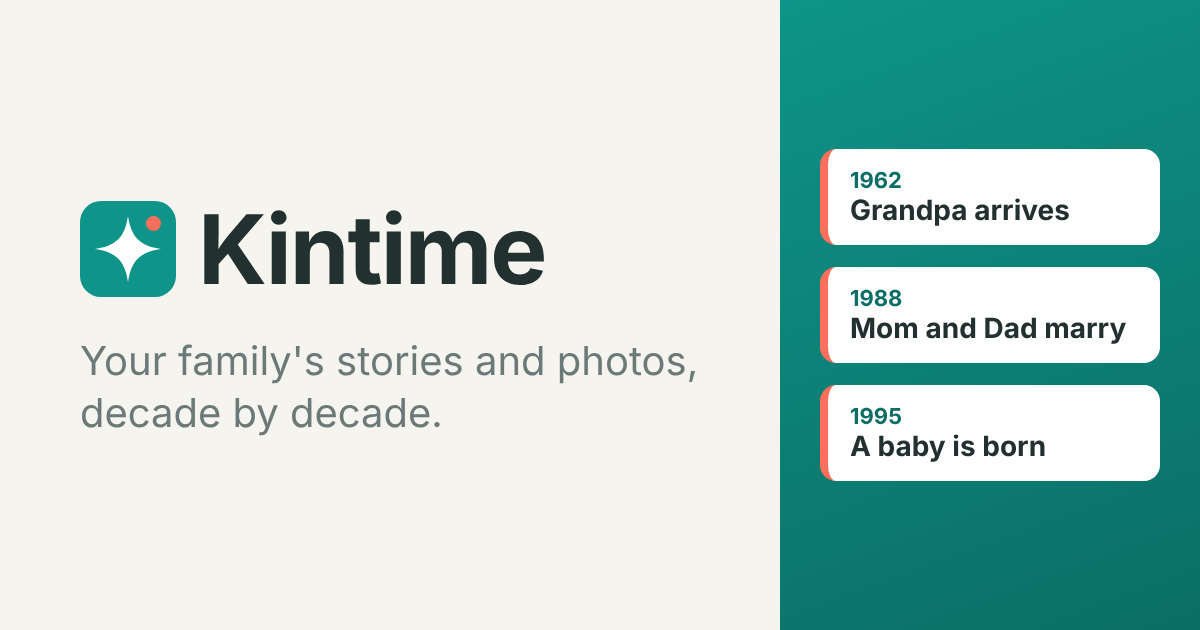
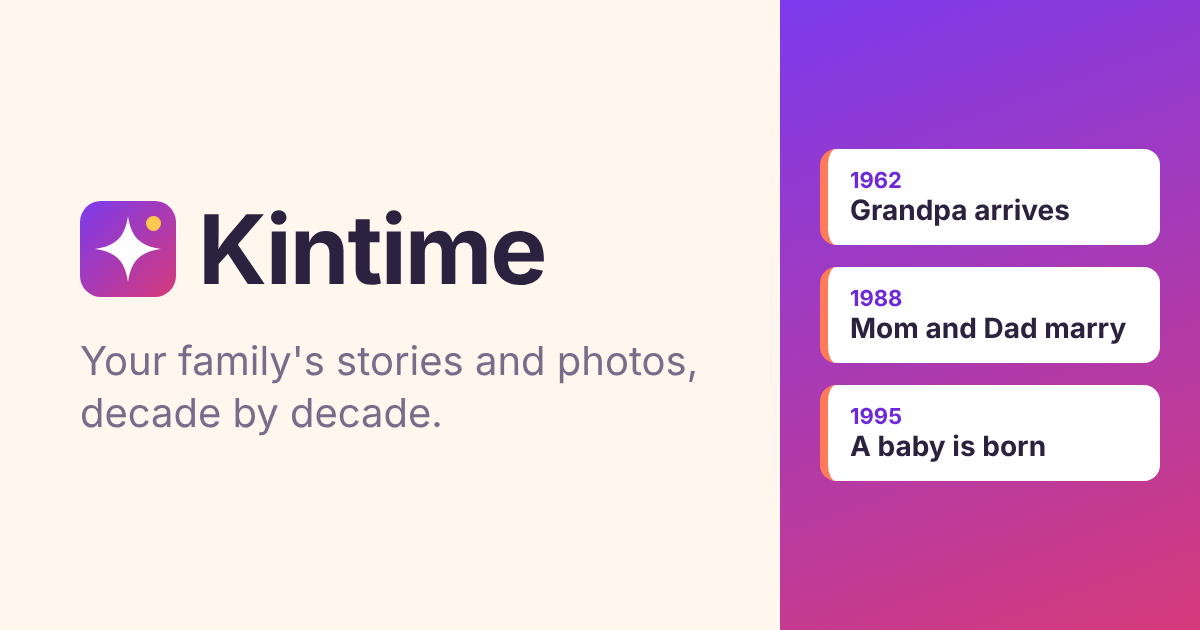
New 'Sunrise' colorway: violet, sunset pink and warm orange on cream
Theme variables renamed from teal/coral to primary/accent; favicon, home-screen
icon and link-preview image recolored to match. Dark mode tuned for contrast.

Claude-Session: https://claude.ai/code/session_0153EzbnYZEfuCp3hrdTCzas

Changed region(s): [[0.6475, 0.0, 1.0, 1.0], [0.0617, 0.3016, 0.1542, 0.4825]]

diff --git a/styles.css b/styles.css
@@ -1,30 +1,35 @@
-/* Kintime (family timeline) — teal & coral theme */
+/* Kintime (family timeline) — "Sunrise" theme */
 
 :root {
-  --teal: #0e9488;
-  --teal-deep: #0b6e66;
-  --coral: #fb6f5c;
-  --coral-deep: #e14e3a;
-  --bg: #f6f4ef;
+  /* "Sunrise": violet + sunset pink + warm orange on cream */
+  --primary: #7c3aed;
+  --primary-deep: #6d28d9;
+  --primary-text: #6d28d9;      /* primary used as text/links */
+  --accent: #ff7a59;
+  --accent-deep: #d9481f;
+  --head-grad: linear-gradient(135deg, #7c3aed, #d63a7a);
+  --bg: #fff7ee;
   --surface: #ffffff;
-  --ink: #22312f;
-  --muted: #6b7a78;
-  --line: #e5ded2;
-  --border: #e5ded2;
-  --bg-soft: #efece3;
-  --badge-pending: #f5b942;
-  --shadow: 0 2px 10px rgba(20, 40, 38, 0.08);
+  --ink: #2b2240;
+  --muted: #776c8a;
+  --line: #f1e3d3;
+  --border: #f1e3d3;
+  --bg-soft: #fbefe3;
+  --badge-pending: #ffd166;
+  --shadow: 0 2px 10px rgba(60, 30, 90, 0.08);
+  --scrim: rgba(25, 14, 40, 0.55);
 }
 
 [data-theme="dark"] {
-  --bg: #121a19;
-  --surface: #1b2524;
-  --ink: #ecf3f1;
-  --muted: #93a5a2;
-  --line: #2c3a38;
-  --border: #2c3a38;
-  --bg-soft: #182220;
-  --shadow: 0 2px 12px rgba(0, 0, 0, 0.35);
+  --primary-text: #b9a0ff;
+  --bg: #16121f;
+  --surface: #211b2e;
+  --ink: #f4effb;
+  --muted: #a99fbe;
+  --line: #352b48;
+  --border: #352b48;
+  --bg-soft: #1c1727;
+  --shadow: 0 2px 12px rgba(0, 0, 0, 0.4);
 }
 
 * { box-sizing: border-box; }
@@ -69,12 +74,12 @@ body {
   white-space: nowrap;
 }
 .btn-primary {
-  background: var(--teal);
-  border-color: var(--teal);
+  background: var(--primary);
+  border-color: var(--primary);
   color: #fff;
   font-weight: 600;
 }
-.btn-primary:hover { background: var(--teal-deep); }
+.btn-primary:hover { background: var(--primary-deep); }
 .btn-icon { padding: 0.45rem 0.6rem; }
 .btn-block { width: 100%; margin-top: 0.75rem; }
 .btn:disabled { opacity: 0.55; cursor: wait; }
@@ -129,26 +134,25 @@ body {
 }
 .decade-nav button.has-entries {
   background: var(--surface);
-  border-color: var(--teal);
-  color: var(--teal-deep);
+  border-color: var(--primary);
+  color: var(--primary-text);
   font-weight: 600;
 }
-[data-theme="dark"] .decade-nav button.has-entries { color: var(--teal); }
 .nav-count {
   display: inline-block;
   min-width: 1.2em;
   margin-left: 0.15rem;
   padding: 0 0.3rem;
   border-radius: 999px;
-  background: var(--teal);
+  background: var(--primary);
   color: #fff;
   font-size: 0.7rem;
   line-height: 1.4;
 }
-.decade-nav button.active .nav-count { background: #fff; color: var(--coral-deep); }
+.decade-nav button.active .nav-count { background: #fff; color: var(--accent-deep); }
 .decade-nav button.active {
-  background: var(--coral);
-  border-color: var(--coral);
+  background: var(--accent-deep);
+  border-color: var(--accent-deep);
   color: #fff;
   font-weight: 600;
 }
@@ -174,7 +178,7 @@ body {
   overflow: hidden;
 }
 .decade-head {
-  background: linear-gradient(135deg, var(--teal), var(--teal-deep));
+  background: var(--head-grad);
   color: #fff;
   padding: 0.7rem 1rem;
   font-weight: 700;
@@ -216,7 +220,7 @@ body.share-view .add-here, body.demo .add-here { display: none; }
   text-align: left;
   cursor: pointer;
 }
-.gap-toggle:hover { border-color: var(--teal); color: var(--ink); }
+.gap-toggle:hover { border-color: var(--primary); color: var(--ink); }
 .gap-label { font-weight: 600; font-size: 0.95rem; }
 .gap-note { font-size: 0.78rem; font-style: italic; }
 .gap-chevron { font-size: 0.8rem; transform: rotate(-90deg); transition: transform 0.15s; }
@@ -227,13 +231,12 @@ body.share-view .add-here, body.demo .add-here { display: none; }
 /* ---------- entry cards ---------- */
 .entry {
   border: 1px solid var(--line);
-  border-left: 4px solid var(--coral);
+  border-left: 4px solid var(--accent);
   border-radius: 12px;
   padding: 0.75rem 0.85rem;
   background: var(--bg);
 }
-.entry-date { font-size: 0.78rem; color: var(--teal-deep); font-weight: 600; }
-[data-theme="dark"] .entry-date { color: var(--teal); }
+.entry-date { font-size: 0.78rem; color: var(--primary-text); font-weight: 600; }
 .entry h3 { margin: 0.25rem 0 0.4rem; font-size: 1rem; }
 .entry-body { font-size: 0.88rem; line-height: 1.45; white-space: pre-wrap; }
 .entry-meta { margin-top: 0.5rem; font-size: 0.75rem; color: var(--muted); }
@@ -246,14 +249,14 @@ body.share-view .add-here, body.demo .add-here { display: none; }
   padding: 0.15rem 0.6rem;
   margin-bottom: 0.4rem;
 }
-.badge-pending { background: var(--badge-pending); color: #4a3200; }
+.badge-pending { background: var(--badge-pending); color: #5a3d00; }
 
 .uncertain-note {
   font-size: 0.75rem;
-  color: var(--coral-deep);
+  color: var(--accent-deep);
   margin-top: 0.4rem;
 }
-.asterisk { color: var(--coral-deep); font-weight: 700; }
+.asterisk { color: var(--accent-deep); font-weight: 700; }
 
 .entry-photos { display: flex; gap: 0.4rem; flex-wrap: wrap; margin-top: 0.5rem; }
 .entry-photos img {
@@ -286,13 +289,13 @@ body.share-view .add-here, body.demo .add-here { display: none; }
 body.privacy-on .entry-body,
 body.privacy-on .entry-photos,
 body.privacy-on .photo-caption { display: none; }
-#eyeBtn.on { background: var(--coral); border-color: var(--coral); color: #fff; }
+#eyeBtn.on { background: var(--accent); border-color: var(--accent); color: #fff; }
 
 /* ---------- overlays / modals ---------- */
 .overlay {
   position: fixed;
   inset: 0;
-  background: rgba(10, 20, 19, 0.55);
+  background: var(--scrim);
   display: flex;
   align-items: center;
   justify-content: center;
@@ -312,7 +315,7 @@ body.privacy-on .photo-caption { display: none; }
 .card h2 { margin-top: 0; }
 .muted { color: var(--muted); }
 .small { font-size: 0.8rem; }
-.error { color: var(--coral-deep); font-size: 0.85rem; }
+.error { color: var(--accent-deep); font-size: 0.85rem; }
 
 .join-card input[type="text"],
 .modal-card input[type="text"],
@@ -352,7 +355,7 @@ body.privacy-on .photo-caption { display: none; }
   align-items: center;
   white-space: nowrap;
 }
-.link-btn { background: none; border: none; color: var(--teal); cursor: pointer; font-size: 0.85rem; text-decoration: underline; }
+.link-btn { background: none; border: none; color: var(--primary-text); cursor: pointer; font-size: 0.85rem; text-decoration: underline; }
 
 .toast {
   position: fixed;
@@ -459,8 +462,8 @@ body.privacy-on .photo-caption { display: none; }
 }
 .warning {
   font-size: 0.85rem;
-  color: var(--coral-deep);
-  background: color-mix(in srgb, var(--coral) 12%, transparent);
+  color: var(--accent-deep);
+  background: color-mix(in srgb, var(--accent) 12%, transparent);
   border-radius: 0.5rem;
   padding: 0.6rem 0.8rem;
 }
@@ -471,7 +474,7 @@ body.privacy-on .photo-caption { display: none; }
   margin: 0.9rem auto 0;
   background: none;
   border: none;
-  color: var(--teal-deep);
+  color: var(--primary-text);
   font-size: 0.9rem;
   cursor: pointer;
   text-decoration: underline;
@@ -483,7 +486,7 @@ body.privacy-on .photo-caption { display: none; }
   justify-content: center;
   gap: 0.8rem;
   flex-wrap: wrap;
-  background: var(--teal);
+  background: var(--head-grad);
   color: #fff;
   font-size: 0.9rem;
   padding: 0.55rem 1rem;
@@ -491,7 +494,7 @@ body.privacy-on .photo-caption { display: none; }
 .demo-banner .btn-small {
   background: #fff;
   border-color: #fff;
-  color: var(--teal-deep);
+  color: var(--primary-deep);
   font-weight: 600;
 }
 

diff --git a/index.html b/index.html
@@ -6,7 +6,7 @@
   <title>Kintime &middot; your family's timeline</title>
   <meta name="robots" content="noindex, nofollow" />
   <meta name="description" content="A private timeline of your family's stories and photos, decade by decade. Join with your family's room code." />
-  <meta name="theme-color" content="#0e9488" />
+  <meta name="theme-color" content="#7c3aed" />
   <link rel="icon" href="favicon.svg" type="image/svg+xml" />
   <link rel="apple-touch-icon" href="apple-touch-icon.png" />
   <!-- Link previews when a family or friends link is texted or emailed -->

diff --git a/README.md b/README.md
@@ -6,7 +6,7 @@ devices, photo uploads to private storage.
 
 ## What's in the page
 
-- Horizontal decade scroll (1930s → today, reaching back to the 1800s when a family has older memories), teal-and-coral theme, dark mode
+- Horizontal decade scroll (1930s → today, reaching back to the 1800s when a family has older memories), "Sunrise" theme (violet, sunset pink and warm orange on cream), dark mode
 - Room-code join (`join_family` RPC); family remembered on the device
 - Every request carries the `x-family-id` header — the database only ever
   returns the joined family's own rows (the Jackbox rule)
